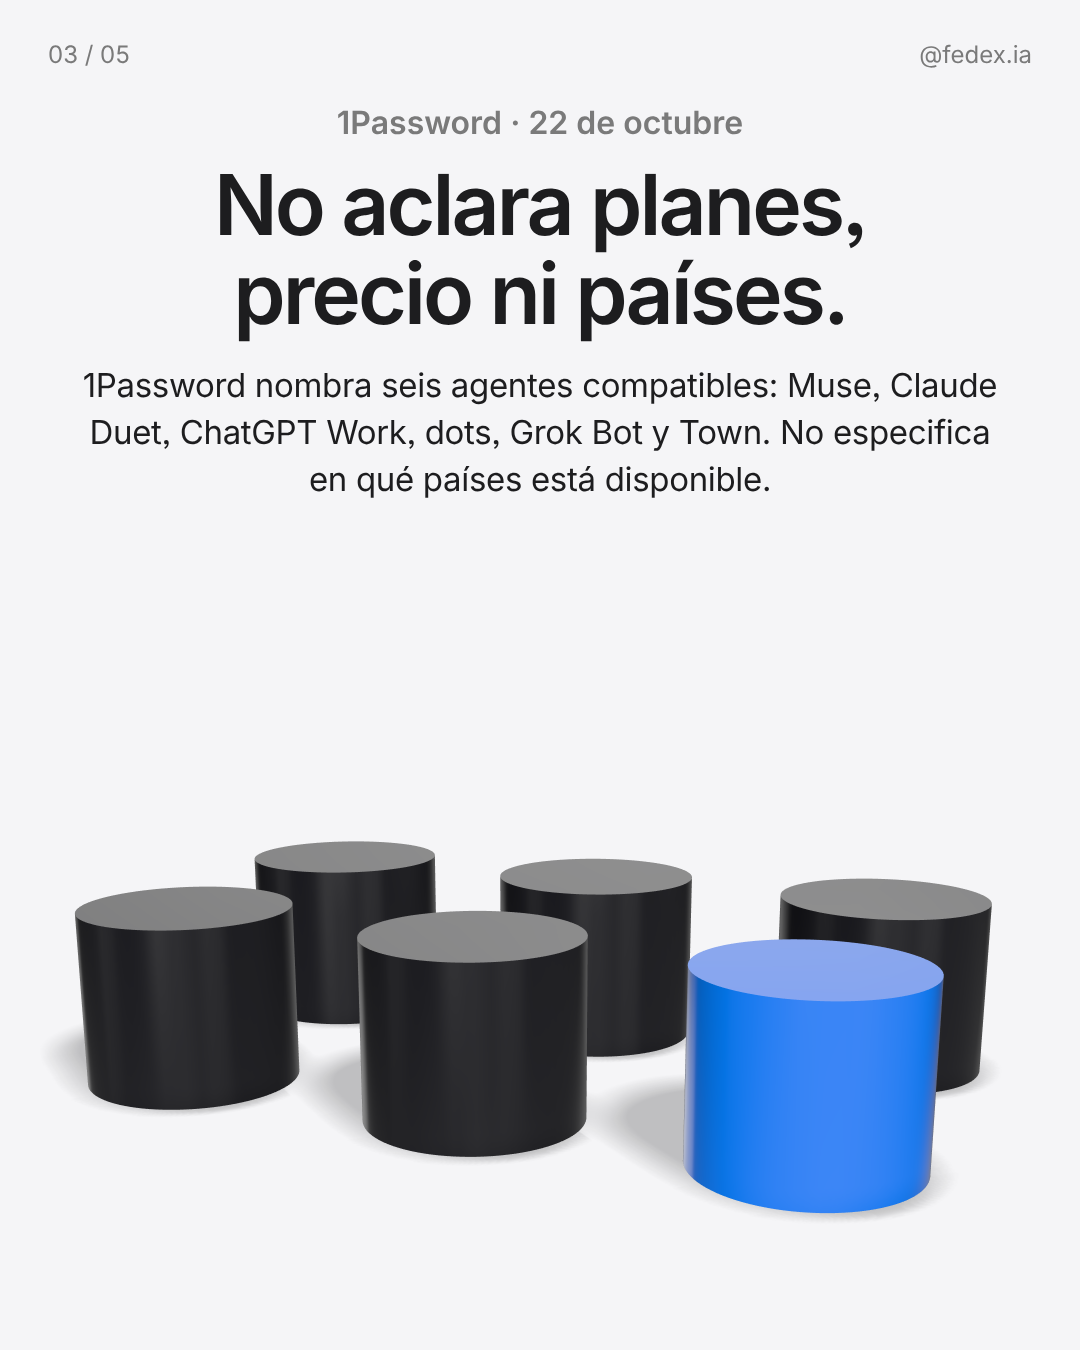
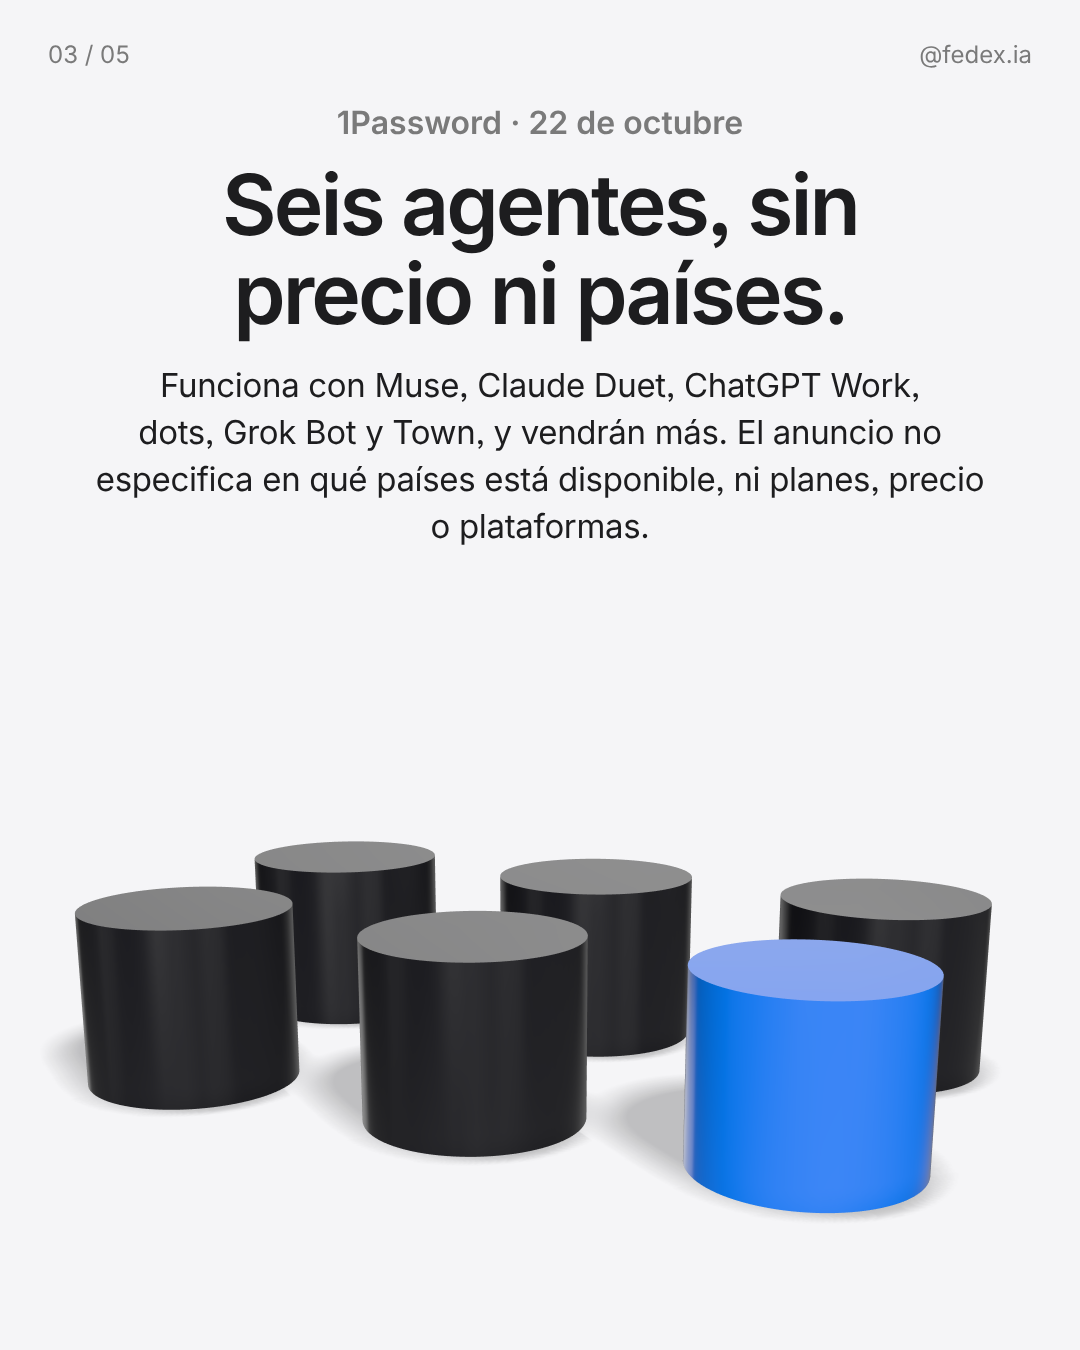
Borrador 2026-10-23: 1Password for Agents, segunda versión del copy
Claude-Session: https://claude.ai/code/session_01PpTkk99CTDb4RmEUrdhmY5

Changed region(s): [[0.0917, 0.28, 0.9167, 0.4044], [0.1833, 0.1244, 0.7944, 0.1867]]

diff --git a/diario/2026-10-23-diario-1password-agentes/copy.md b/diario/2026-10-23-diario-1password-agentes/copy.md
@@ -12,33 +12,33 @@ Estado: pendiente de aprobación
 - Prensa: https://techcrunch.com/2026/10/22/1password-launches-a-way-for-ai-agents-to-log-in-on-your-behalf-without-seeing-your-password/
 
 ## Hooks
-1. Tu agente inicia sesión sin ver tu contraseña.
-2. El agente pide, tú apruebas.
+1. Tu agente inicia sesión sin conocer tu clave.
+2. Tú apruebas cada ingreso.
 
 ## Slides
-1. Portada (fondo blanco). Eyebrow «1Password · 22 de octubre». Titular: «Tu agente inicia sesión sin ver tu contraseña.» Bajada: «1Password lanzó 1Password for Agents. Qué hace y qué no aclara.» Pastillas: «1Password for Agents» y «Desliza →».
+1. Portada (fondo blanco). Eyebrow «1Password · 22 de octubre». Titular: «Tu agente inicia sesión sin conocer tu clave.» Bajada: «Lo que lanzó 1Password y lo que no aclaró.» Pastillas: «1Password for Agents» y «Desliza →».
    - Objeto 3D: caja fuerte plateada con un disco azul al frente y una esfera perla al lado.
-   - Alt: Ilustración 3D de una caja fuerte plateada con un disco azul al lado de una esfera perla. Texto: Tu agente inicia sesión sin ver tu contraseña.
-2. Qué pasó (fondo oscuro). Titular: «El agente pide, tú apruebas.» Cuerpo: «Según 1Password, el agente se identifica con una clave digital. Tú ves qué credencial pide y por qué, y apruebas desde tu dispositivo.»
+   - Alt: Ilustración 3D de una caja fuerte plateada con un disco azul al lado de una esfera perla. Texto: Tu agente inicia sesión sin conocer tu clave.
+2. Qué pasó (fondo oscuro). Titular: «Tú apruebas cada ingreso.» Cuerpo: «Según 1Password, el agente se presenta con una clave digital y tú ves qué cuenta necesita y para qué. Si aceptas, 1Password completa el formulario sin pasarle la contraseña.»
    - Objeto 3D: dos bloques perla enfrentados con un cubo azul en el medio.
-   - Alt: Ilustración 3D de dos bloques perla enfrentados con un cubo azul en el medio. Texto: El agente pide, tú apruebas.
-3. Disponibilidad (fondo gris). Titular: «No aclara planes, precio ni países.» Cuerpo: «1Password nombra seis agentes compatibles: Muse, Claude Duet, ChatGPT Work, dots, Grok Bot y Town. No especifica en qué países está disponible.»
+   - Alt: Ilustración 3D de dos bloques perla enfrentados con un cubo azul en el medio. Texto: Tú apruebas cada ingreso.
+3. Disponibilidad (fondo gris). Titular: «Seis agentes, sin precio ni países.» Cuerpo: «Funciona con Muse, Claude Duet, ChatGPT Work, dots, Grok Bot y Town, y vendrán más. El anuncio no especifica en qué países está disponible, ni planes, precio o plataformas.»
    - Objeto 3D: seis cilindros en dos filas, cinco grafito y uno azul.
-   - Alt: Ilustración 3D de seis cilindros en dos filas, cinco grises y uno azul. Texto: No aclara planes, precio ni países.
-4. Qué significa (fondo oscuro). Titular: «Delegar sin compartir tus claves.» Cuerpo: «Según 1Password, el agente no recibe tu contraseña. Antes de aprobar, revisa qué cuenta pide y para qué.»
+   - Alt: Ilustración 3D de seis cilindros en dos filas, cinco grises y uno azul. Texto: Seis agentes, sin precio ni países.
+4. Qué significa (fondo oscuro). Titular: «Delegar sin dar tu contraseña.» Cuerpo: «Si un agente te ayuda con tus redes o tus facturas, no hace falta pegarle la clave. Antes de aceptar, mira qué cuenta pide.»
    - Objeto 3D: esfera perla dentro de un marco azul sobre una base blanca.
-   - Alt: Ilustración 3D de una esfera perla dentro de un marco azul sobre una base. Texto: Delegar sin compartir tus claves.
-5. Cierre (fondo blanco). Titular: «¿A qué cuenta dejarías entrar a un agente?» Cuerpo: «Guarda el post para revisarlo cuando pruebes uno.» Pastillas: «Seguí a @fedex.ia» y «Guardar». Fuente: 1password.com.
+   - Alt: Ilustración 3D de una esfera perla dentro de un marco azul sobre una base. Texto: Delegar sin dar tu contraseña.
+5. Cierre (fondo blanco). Titular: «¿A qué cuenta dejarías entrar a un agente?» Cuerpo: «Guarda el post para tenerlo cuando pruebes uno.» Pastillas: «Seguí a @fedex.ia» y «Guardar». Fuente: 1password.com.
    - Objeto 3D: marcador azul y tarjeta perla (objeto «cierre» del kit).
    - Alt: Ilustración 3D de un marcador azul junto a una tarjeta perla. Texto: ¿A qué cuenta dejarías entrar a un agente?
 
-## Caption para copiar (127 palabras + 5 hashtags)
+## Caption para copiar (116 palabras + 5 hashtags)
 ```text
-1Password lanzó el 22 de octubre 1Password for Agents, una forma de que un agente de IA inicie sesión por ti sin ver tu contraseña. Según la empresa, el agente se identifica con una clave digital. Tú ves qué credencial pide y por qué, y apruebas desde tu dispositivo. Después, 1Password completa el formulario y el agente no recibe la contraseña.
+1Password presentó el 22 de octubre 1Password for Agents, pensado para que un agente de IA inicie sesión sin conocer tus claves. Según la empresa, el agente se presenta con una clave digital y tú ves qué cuenta necesita y para qué. Si aceptas desde tu dispositivo, 1Password completa el formulario y la contraseña no pasa por el agente.
 
-1Password nombra como compatibles a Muse, Claude Duet, ChatGPT Work, dots, Grok Bot y Town, y dice que habrá más integraciones. No especifica en qué países está disponible y tampoco da precio, planes ni plataformas.
+Funciona con Muse, Claude Duet, ChatGPT Work, dots, Grok Bot y Town, y la empresa promete más. No especifica en qué países está disponible, ni precio, planes o plataformas.
 
-Si usas un agente para tareas de tu negocio, revisa qué cuenta pide antes de aprobar. Guarda el post y sigue a @fedex.ia para la noticia de IA de cada día.
+Si ya delegas tareas en un agente, esto cambia cómo le das acceso. Guarda el post y sigue a @fedex.ia para la noticia de IA de cada día.
 
 #InteligenciaArtificial #NoticiasIA #IAenEspañol #1Password #AgentesIA
 ```
@@ -50,7 +50,7 @@ Fuentes: 1password.com/press/2026/october/1password-for-agents-trust-layer-perso
 
 ## Comentario 2 · Pregunta
 ```text
-¿Qué tarea de tu negocio le delegarías a un agente si no necesitara tu contraseña?
+¿Qué trámite de tu negocio dejarías en manos de un agente si tú apruebas cada ingreso?
 ```
 
 ## Fuentes por slide
@@ -59,7 +59,7 @@ Fuentes: 1password.com/press/2026/october/1password-for-agents-trust-layer-perso
 | 01 | Anuncio oficial de 1Password (1password.com) |
 | 02 | Anuncio oficial de 1Password |
 | 03 | Anuncio oficial de 1Password (agentes nombrados y datos no especificados) |
-| 04 | Anuncio oficial de 1Password; el consejo final es de @fedex.ia |
+| 04 | Anuncio oficial de 1Password; el ejemplo y el consejo son de @fedex.ia |
 | 05 | 1password.com (línea de fuente solo en el cierre) |
 
 ## Verificación
